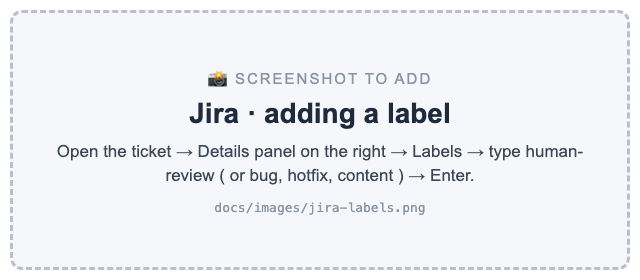
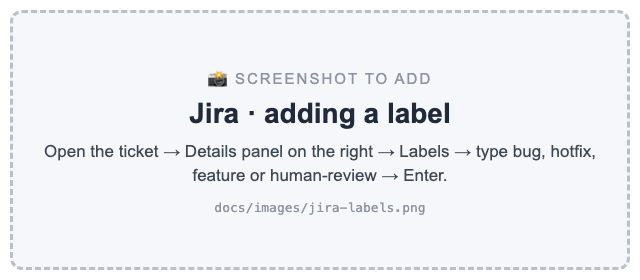
README: optional labels bug, hotfix, feature, human-review

Changed region(s): [[0.0625, 0.5143, 0.9375, 0.5714], [0.25, 0.6, 0.75, 0.6571]]

diff --git a/README.md b/README.md
@@ -9,7 +9,7 @@ The goal: QA and developers no longer compare screenshots by hand. People only s
 ## How it works
 
 1. Create the ticket ( Jira status: New ): the product manager creates the ticket in Jira with what should change and what must not change.
-2. Review the ticket ( Jira status: To Do ): the team lead or dev manager reviews the ticket, adds more details and moves it to To Do ( ready to be picked up ). If the work starts right away, they can move it straight to Doing instead. Optional labels: `bug`, `hotfix`, `content`, `human-review`. To add a label: open the ticket → Details panel on the right → Labels → type the label → Enter.
+2. Review the ticket ( Jira status: To Do ): the team lead or dev manager reviews the ticket, adds more details and moves it to To Do ( ready to be picked up ). If the work starts right away, they can move it straight to Doing instead. Optional labels: `bug`, `hotfix`, `feature`, `human-review` ( no label = feature ). To add a label: open the ticket → Details panel on the right → Labels → type the label → Enter.
 
    <img src="docs/images/jira-labels.png" width="420" alt="Adding a label in the Jira ticket's Details panel">
 3. Build the change ( Jira status: In Progress ): a developer picks it up [ or ] anyone ( dev manager, team lead, developer ) clicks ⚡ Run Agent 1 in Jira and the AI agent builds it. Run Agent 1 can be clicked at any time before Done. If a developer has already started, the AI continues on the same branch ( see "Run Agent 1 at each status" below ).
@@ -88,7 +88,7 @@ The AI builds and reviews the change based on what the ticket says, so a clear t
 | Devices | Optional | e.g. "phone only", "desktop and phone" | Tells the AI on which devices the change is expected. Without it, the AI expects the change on all devices. The devices that are tested are set in `playwright.config.ts` |
 | Design reference | Optional | A design system rule or a Figma link | Checked together with `guidelines/design-system.md` |
 | Steps to reproduce, Actual, Expected | Required for a bug or hotfix | How to see the bug, what you see now, what you should see | The AI first reproduces the bug, then fixes it and adds a regression test |
-| Labels | Optional | `bug`, `hotfix`, `content`, `refactor`, `a11y`, `human-review` | Tells the AI the type of work. `human-review` means a person approves before the merge |
+| Labels | Optional | `bug`, `hotfix`, `feature`, `human-review` ( more types: `content`, `refactor`, `a11y` ) | Tells the AI the type of work ( no label = feature ). `human-review` means a person approves before the merge |
 | Work type | Optional | Task ( default, treated as a feature ) or Bug | A Bug work type is treated like the `bug` label |
 
 *Template ( copy into the Jira description )*
